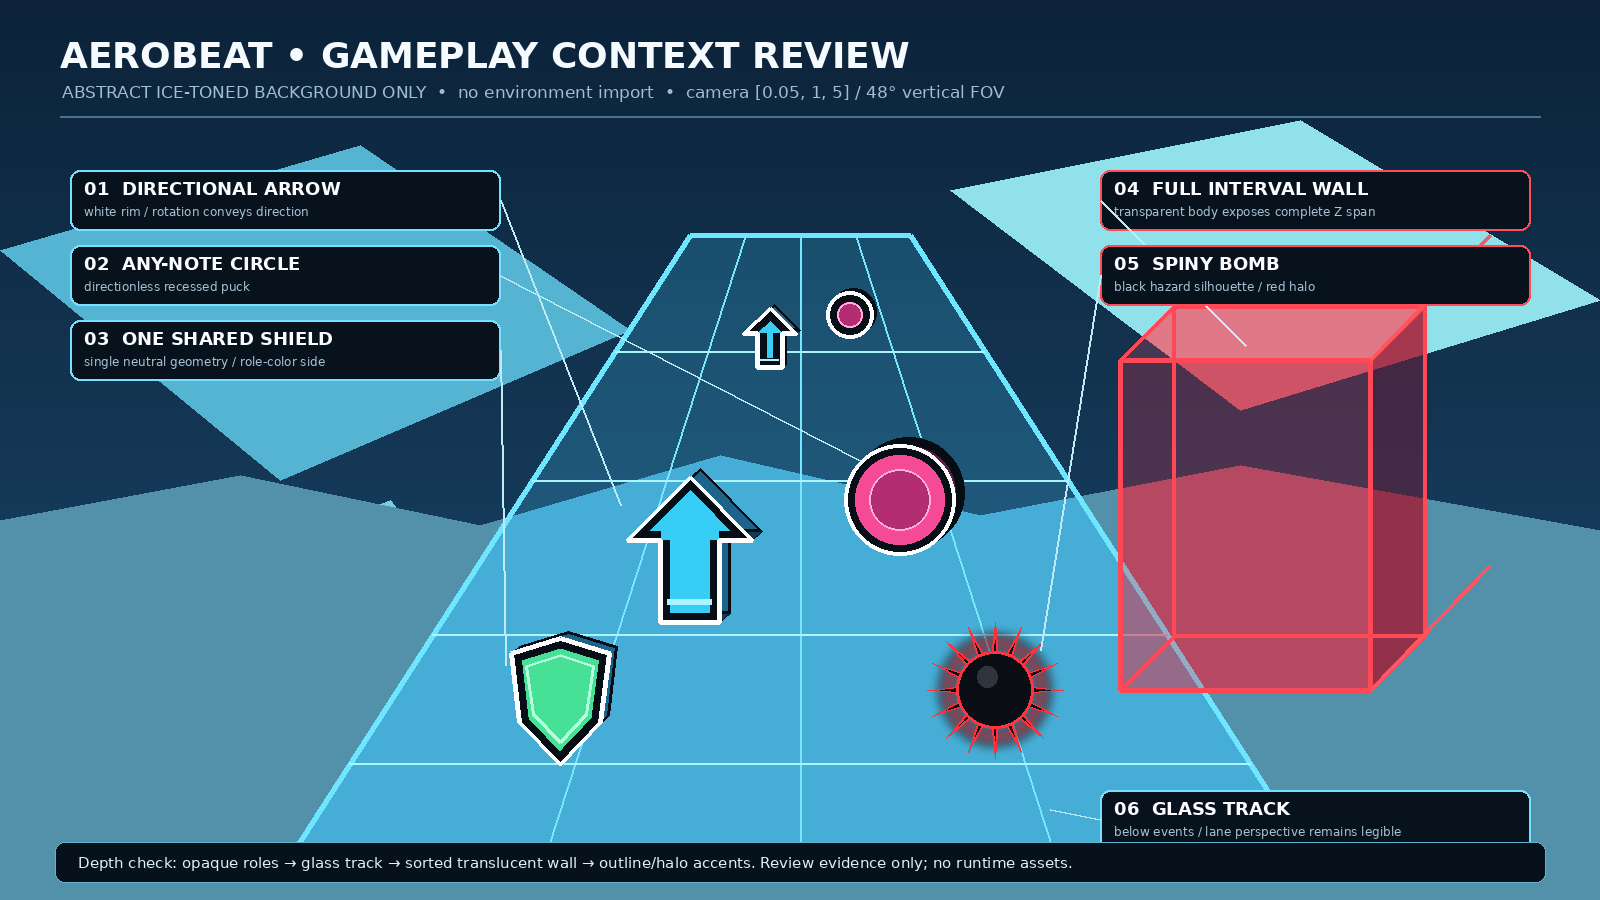
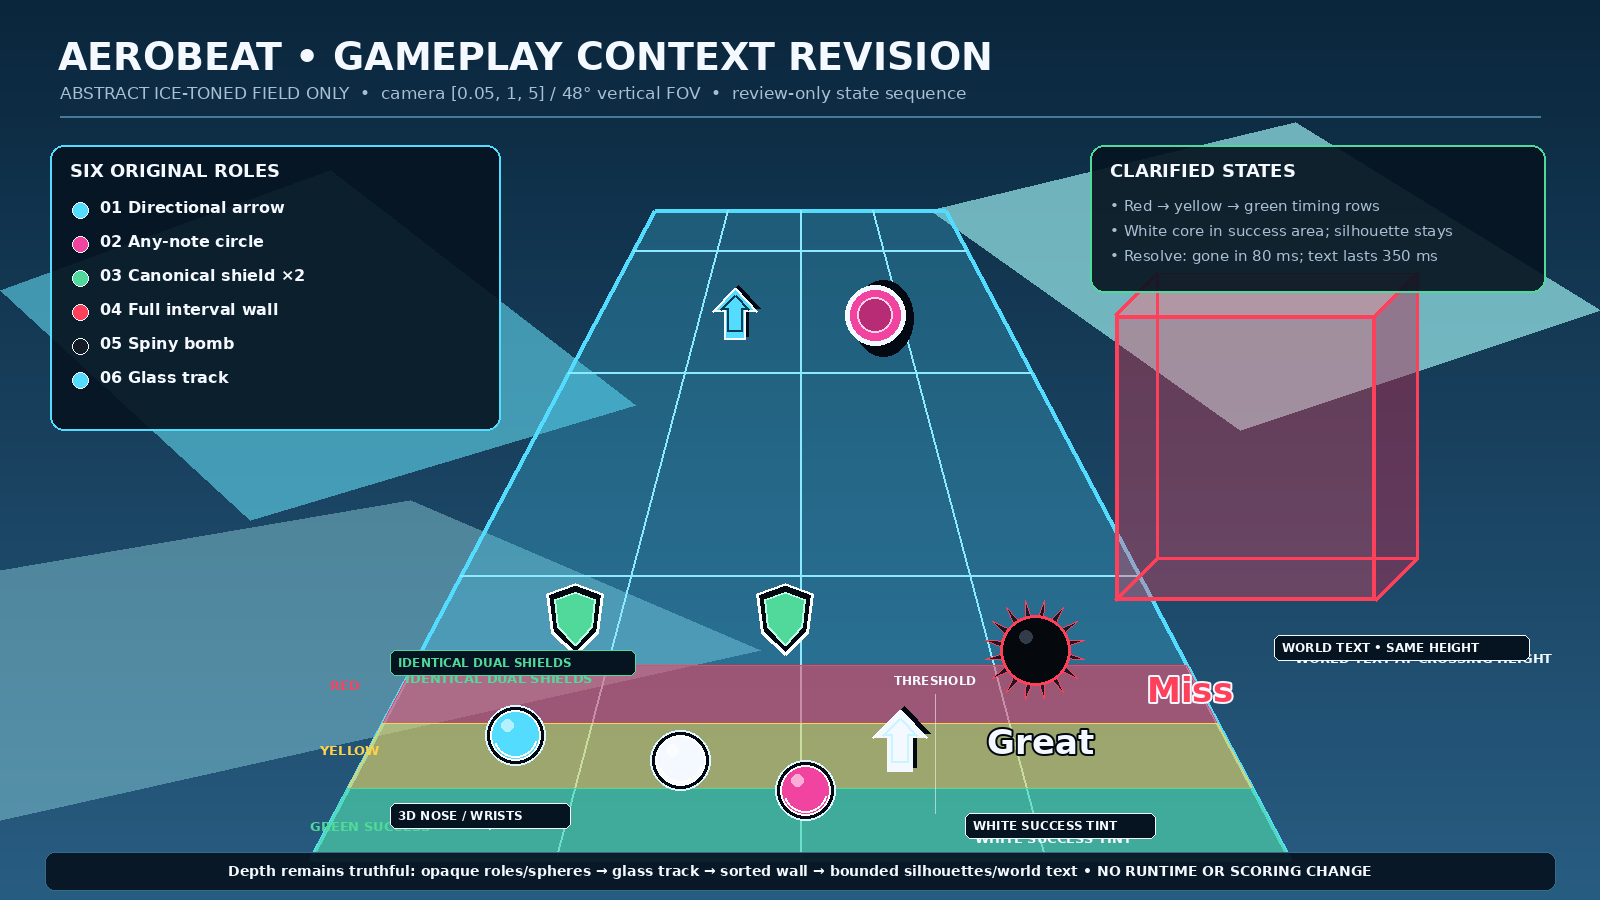
Revise handcrafted 3D review states

diff --git a/docs/handcrafted-3d-visual-spec-v1.md b/docs/handcrafted-3d-visual-spec-v1.md
@@ -20,32 +20,58 @@ Texture budgets are maxima, not requirements. Flat colors, vertex colors, and an
 |---|---:|---|---|---|---|---|---|---|---|
 | Directional arrow | `0.78 × 0.78 × 0.18` | geometric center `[0,0,0]` | Beveled DDR-like arrow plate; arrow tip points **+Y in mesh space** at identity; gameplay direction is rotation about local Z; visible face looks toward **−Z** | Role-colored satin core, roughness `0.38`, white outer rim and charcoal separator | Opaque; depth test/write on; outline depth test on/write off | ≤ `420` triangles; ≤ `256²` maps | AABB `[-0.42,0.42] × [-0.42,0.42] × [-0.11,0.11]` | One mesh for Flow and Boxing; direction only by rotation/material | At 1600×900 review framing, tip, shaft, bevel, and uninterrupted white rim are readable; no adjacent-cell overlap |
 | Any-note circle | `0.70 × 0.70 × 0.18` | geometric center `[0,0,0]` | Beveled circular puck with shallow recessed face; visible face looks toward **−Z** | Same role-colored satin core and two-stage rim as arrow | Opaque; depth test/write on; outline depth test on/write off | ≤ `320` triangles; ≤ `256²` maps | AABB `[-0.38,0.38] × [-0.38,0.38] × [-0.11,0.11]` | One directionless mesh across applicable modes | Circular silhouette stays distinct from arrow at approach distance; rim is continuous and center does not read as a hole |
-| Shared shield | `0.72 × 0.82 × 0.16` | center of rear grip plane `[0,0,0.07]` | Convex crest shield, top shoulders at +Y and point at −Y; front faces **−Z** | Satin role-color face, darker bevel, white perimeter rim; left/right differ by material only | Opaque; depth test/write on; outline depth test on/write off | ≤ `520` triangles; ≤ `256²` maps | AABB `[-0.39,0.39] × [-0.44,0.44] × [-0.10,0.10]` relative to geometry center | **Exactly one shared shield mesh** reused identically for left and right hands; no mirrored or duplicated geometry | Both hand roles remain recognizable using only role color; crest is neutral (no handed emblem); one canonical identity is recorded |
+| Shared shield | `0.72 × 0.82 × 0.16` | center of rear grip plane `[0,0,0.07]` | Convex crest shield, top shoulders at +Y and point at −Y; front faces **−Z** | Satin green face, darker bevel, white perimeter rim; the two displayed instances use the same material and icon | Opaque; depth test/write on; outline depth test on/write off | ≤ `520` triangles; ≤ `256²` maps | AABB `[-0.39,0.39] × [-0.44,0.44] × [-0.10,0.10]` relative to geometry center | **Exactly one canonical shield model/icon**, instantiated twice for every guard beat: simultaneous identical instances in both applicable left/right cells or lanes; no mirroring, handed emblem, geometry variant, or one-shield substitution | A guard is accepted only when both identical shields are visibly present at once; instance transforms may place them left/right but may not distinguish their geometry, icon, scale, or material |
 | Full interval wall | Base cross-section `1.80 × 1.90`; variable Z length `L = max(0.08, speedWorldUnitsPerMs × (endTimestampMs − centerTimestampMs))` | interval center `[0,0,0]` after placement | Beveled rectangular volume extends `L/2` along ±Z; travel-facing front is **−Z** | Red glass body, alpha `0.24`; red emissive edge cage alpha `0.82`; no white note outline | Body depth test on/write off; edge cage depth test/write on; render opaque gameplay first, then wall body back-to-front, then edges; no alpha discard | Unit-source box ≤ `48` triangles plus edge cage ≤ `96`; no textures | AABB `[-0.94,0.94] × [-0.99,0.99] × [-(L/2+0.04), L/2+0.04]` | One unit wall scaled only from authoritative full interval; never substitute a short slab | Review shows front, side, and complete length simultaneously; objects remain legible through body; wall begins/ends exactly at authoritative interval endpoints |
 | Spiny bomb | `0.78 × 0.78 × 0.78` tip-to-tip; core diameter `0.44`; 14–18 conical spines | core center `[0,0,0]` | Black sea-urchin silhouette with nonuniform evenly distributed sharp cones; one forward-biased spine points generally **−Z** | Near-black rough core (`0.12` value, roughness `0.46`), charcoal spines, red emissive root ring and silhouette halo | Opaque core/spines depth test/write on; red halo additive, depth test on/write off; halo never reveals occluded back spines | ≤ `900` triangles; ≤ `256²` emissive/base map | Bounding sphere radius `0.42`; AABB `[-0.42,0.42]³` | One bomb mesh for all bomb events | Reads as hazardous from silhouette alone; sharp tips do not enter adjacent cells; red cue is visible without washing black core gray |
 | Glass track | `4.20 × 0.06 × 24.00` review/runtime seed dimensions; may extend Z by segment reuse | top-surface center `[0,0.03,0]` with placement below gameplay at world Y chosen by renderer | Thin slab runs along local **−Z** approach direction; beveled long edges | Ice-blue glass alpha `0.20`, roughness `0.16`, subtle cyan edge emissive; sparse analytic lane lines, no environment image | Body depth test on/write off; lane/edge lines depth test/write on; render after opaque events but before translucent walls; stable back-to-front ordering by renderer | ≤ `160` triangles per canonical segment; ≤ `512²` optional repeatable mask | AABB `[-2.14,2.14] × [-0.04,0.08] × [-12.04,12.04]` | One canonical segment; extend by deterministic segment reuse, never stretch lane-line width | Perspective is immediately legible, surface remains below athlete/events, background shows through, and edge/lane cues do not obscure timing floor |
 
+## Review-only gameplay-state specification
+
+This section fixes the visual-review proposal only; it does **not** alter judgement thresholds, event timing, score, combo, event IDs, persistence, or any public/runtime contract. All times below are renderer presentation durations measured from existing authoritative timeline/judgement truth and require separate approval before implementation.
+
+### Guard instancing
+
+For every guard beat, acquire the one canonical shield model/icon once and submit **two simultaneous visible instances**: one centered in the applicable left cell/lane and one centered in the applicable right cell/lane at the same authoritative beat Z and Y. Both instances use the exact same geometry, icon, scale, orientation, and material. Their X placement is the only intentional difference. The pair enters, approaches, tints, resolves, and disappears as one event; a single displayed shield is invalid. Review bound: each instance remains inside its own `0.78 × 0.90 × 0.22` AABB, with at least `0.10` world-unit clear space at the center divider.
+
+### Athlete-space sphere markers
+
+The nose, left wrist, and right wrist are full 3D spheres—not discs, billboards, rings, or screen overlays—with diameter `0.18` world units (≤ `192` triangles each; no textures). Their centers are the truthful renderer-projected world positions for the current calibrated nose/left-wrist/right-wrist records; no snapping to cells, shared depth plane, second mirror, or cosmetic offset is allowed. Preserve the existing renderer-owned role colors (review board: nose white, left wrist cyan, right wrist magenta). Spheres depth-test and depth-write normally, so track, notes, hands, and walls occlude them truthfully; no always-on-top pass. Their bound is a radius-`0.10` sphere around each landmark center. Existing confidence/lifecycle clearing behavior remains unchanged.
+
+### Near-athlete timing rows and approaching tint
+
+The three near-athlete grid rows remain visibly colored, in travel order, **red / yellow / green**, with the green row as the success area nearest the athlete. Rows are floor surfaces below events (`0.92` cell depth each, `0.04` gaps, alpha `0.42–0.54`), depth-tested and non-scoring. An unresolved approaching beat retains its role color through red and yellow. On first entering the existing authoritative green success-area bounds, its core color interpolates to white over a review-only `60 ms`, then remains white while inside that area; its original arrow/circle/shield silhouette, bevel, depth, and bounded white/dark rim remain intact. Tinting is material-only: no geometry replacement, scale pulse, threshold shift, or score effect. If the beat leaves the area unresolved, return to its role color over `60 ms`.
+
+### Resolution and world feedback
+
+At the existing authoritative judgement threshold, the resolved beat begins a fast `0.92→0.00` opacity/scale removal over `80 ms` and is absent afterward. At that same threshold time, spawn one camera-facing but world-positioned text instance at the beat's exact crossing X/Z and the beat center's exact world Y; do not move it to HUD space or a generic lane label. `Great` uses a white face with a dark `2 px` equivalent separation shadow. `Miss` uses a red face with a white `2 px` equivalent outline. Both hold for `180 ms`, then fade to zero over `170 ms` (total lifetime `350 ms`), with no travel and no scale pulse. World-text bounds are at most `0.72 × 0.24 × 0.02` world units, clamped to `18–42 px` apparent text height. Depth test is on, depth write is off, and ordinary opaque gameplay may occlude the text; a small `0.01` camera-facing depth bias prevents z-fighting only. At most four feedback labels may coexist; oldest labels expire first. Text must not cover an adjacent lane center or remain long enough to compete with later beats. Obstacles and bombs never emit this feedback.
+
+### Review presentation budget
+
+The added review proposal contributes at most 3 marker spheres (`576` triangles total), one extra shield instance (`520` triangles), and four text quads (`8` triangles) beyond the original representative set. No added textures are required: sphere/row/tint colors are analytic, and future text must use an already renderer-owned bounded glyph atlas rather than a new Task 1 asset. The complete representative view remains below `20,000` source triangles before instancing.
+
 ## Layering and visibility contract
 
-1. Render opaque notes, shield, bomb core/spines, timing floor, and other opaque gameplay with normal depth writes.
+1. Render opaque notes, both guard-shield instances, bomb core/spines, 3D athlete spheres, timing rows, and other opaque gameplay with normal depth writes.
 2. Render the glass-track body with depth test on and depth writes off; render its lane/edge accents with depth writes on only where the renderer can guarantee no intersection with gameplay.
 3. Sort translucent wall bodies by camera-space depth, far to near, with depth writes off. Render their edge cages after each body with depth test on.
-4. Render white note/shield silhouettes last among their own opaque group using a bounded shell/screen-space technique. Do not use blended coplanar decals.
+4. Render bounded note/shield silhouettes last among their own opaque group using a shell/screen-space technique. The success-area white core tint must preserve that silhouette and its dark separator. Do not use blended coplanar decals.
 5. Render the bomb's red halo additively with depth test on so rear spines and glow remain occluded.
-6. Transparency must not change semantic timing, placement, or event visibility. The wall's visible Z extent is always the complete authoritative interval.
+6. Render threshold-positioned world feedback depth-tested/write-off after opaque gameplay; it remains occludable and never becomes HUD text.
+7. Transparency and review-only transitions must not change semantic timing, placement, scoring, or event visibility. The wall's visible Z extent is always the complete authoritative interval.
 
 ## Poly and texture aggregate budget
 
-A representative visible set of 24 notes, 2 shields, 2 bombs, 3 walls, and 1 track segment must remain below `18,000` source triangles before renderer instancing. Canonical geometry is instanced by role. Optional authored texture storage for all six roles combined is capped at `2 MiB` uncompressed source pixels and `1 MiB` packaged GPU-ready payload in a future approved task. Task 1 supplies no runtime textures or models.
+A representative visible set of 24 notes, 2 simultaneous guard-shield instances, 3 athlete spheres, 2 bombs, 3 walls, 4 feedback quads, and 1 track segment must remain below `20,000` source triangles before renderer instancing. Canonical geometry is instanced by role. Optional authored texture storage for all six roles combined is capped at `2 MiB` uncompressed source pixels and `1 MiB` packaged GPU-ready payload in a future approved task. Task 1 supplies no runtime textures or models.
 
 ## Review-board acceptance
 
 - Exactly two labeled `1600 × 900` PNG boards provide neutral and abstract ice-toned gameplay-context views.
-- Every board visibly identifies all six roles: directional arrow, any-note circle, one shared shield, full interval wall, spiny bomb, and glass track.
+- Every board visibly identifies all six original roles: directional arrow, any-note circle, canonical shared shield, full interval wall, spiny bomb, and glass track.
+- Every board also visibly demonstrates two simultaneous identical shield instances, truthful-depth nose/left-wrist/right-wrist spheres, red/yellow/green near-athlete rows, an approaching white-tinted beat with silhouette retained, rapid resolved-beat disappearance, and threshold-height `Great` / outlined `Miss` world text.
 - The gameplay-context board uses only an abstract ice-toned background and does not import an environment or third-party asset.
 - White rims remain readable over both dark neutral and pale ice fields; black bomb silhouette and red avoidance cue remain distinct.
 - Wall and track translucency communicate depth without hiding notes; the wall visibly spans an interval rather than reading as a thin target.
-- Boards are design-review evidence only. They are not model sheets, textures, meshes, GLBs, collision geometry, or runtime assets.
+- Boards are design-review evidence only. They are not model sheets, textures, meshes, GLBs, collision geometry, environment assets, or runtime inputs; all illustrated durations and transitions remain non-scoring review proposals.
 
 ## Rights and provenance
 

diff --git a/.plans/2026-09-02-handcrafted-3d-gameplay-visuals-and-environment.md b/.plans/2026-09-02-handcrafted-3d-gameplay-visuals-and-environment.md
@@ -1,6 +1,6 @@
 # Handcrafted 3D Gameplay Visuals and Environment
 
-**Status:** TASK 1 REVISION IN PROGRESS — Derrick supplied clarified guard, athlete-marker, timing-tint, and world-feedback requirements; Tasks 2–6 remain unapproved
+**Status:** TASK 1 REVISION CODER COMPLETE — revised spec/boards ready for k72.5 QA and k72.6 audit; Tasks 2–6 remain unapproved
 **Owning repo:** `/home/derrick/.dsh/projects/aerobeat/aerobeat-web-assembly`
 **Planning Bead:** `aerobeat-web-assembly-k72`
 **Initial Task 1 chain:** coder `aerobeat-web-assembly-k72.1` → QA `aerobeat-web-assembly-k72.2` → audit `aerobeat-web-assembly-k72.3`
@@ -106,3 +106,12 @@ Replace the discarded block/background conversion direction with jointly authore
 ## Approval gate
 
 Derrick approved Task 1 only, after the camera-loader successor is ready, and on 2026-09-02 requested a Task 1 revision covering simultaneous dual-shield display, 3D nose/wrist spheres, colored timing rows, white success-area beat tint, and short-lived world-space `Great`/`Miss` feedback. Task 1 may specify and render-review these proposed geometry/material/feedback behaviors but must not create landing-ready runtime assets or integrate them. Tasks 2–6 require separate approval.
+
+## Task 1 revision coder result (2026-09-02)
+
+- Revised `docs/handcrafted-3d-visual-spec-v1.md` so every guard beat displays two simultaneous visible identical instances of one canonical shield model/icon in the applicable left/right cells or lanes. The only distinction is placement; geometry, icon, scale, orientation, material, Y, and beat Z remain identical.
+- Added review-only, non-scoring specifications for full 3D nose/left-wrist/right-wrist spheres at truthful role-colored world positions; red/yellow/green near-athlete rows; a `60 ms` white success-area core tint that preserves silhouette; `80 ms` resolved-beat removal; and same-height threshold-positioned `Great`/`Miss` world text with `180 ms` hold plus `170 ms` fade (`350 ms` total).
+- Fixed depth/occlusion ordering, per-object bounds, coexistence limits, triangle/texture budgets, and explicit exclusions from judgement thresholds, score, combo, timing truth, event IDs, persistence, public contracts, obstacles, and bombs.
+- Regenerated the two existing RGB `1600 × 900` review boards. Both retain and label the original six roles while visibly demonstrating dual identical shields, 3D role-colored athlete spheres, red/yellow/green rows, white success tint with silhouette retained, rapid disappearance, and `Great` / white-outlined `Miss` world feedback.
+- Updated `manifest.json` revision, fixed review camera/provenance, board coverage, SHA-256 records, and non-runtime disclaimer. Temporary Pillow generators were removed; no generator, model, mesh, GLB, texture, runtime code, environment, or Tasks 2–6 implementation is retained.
+- Coder validation passed: exact directory inventory is two PNGs plus one manifest; both PNGs are nonempty RGB `1600 × 900`; JSON parses; hashes reproduce; repository scope and diff checks pass. Bead `aerobeat-web-assembly-k72.4` is complete; `k72.5`, `k72.6`, and parent `k72` remain open for independent QA/audit and Derrick review.
